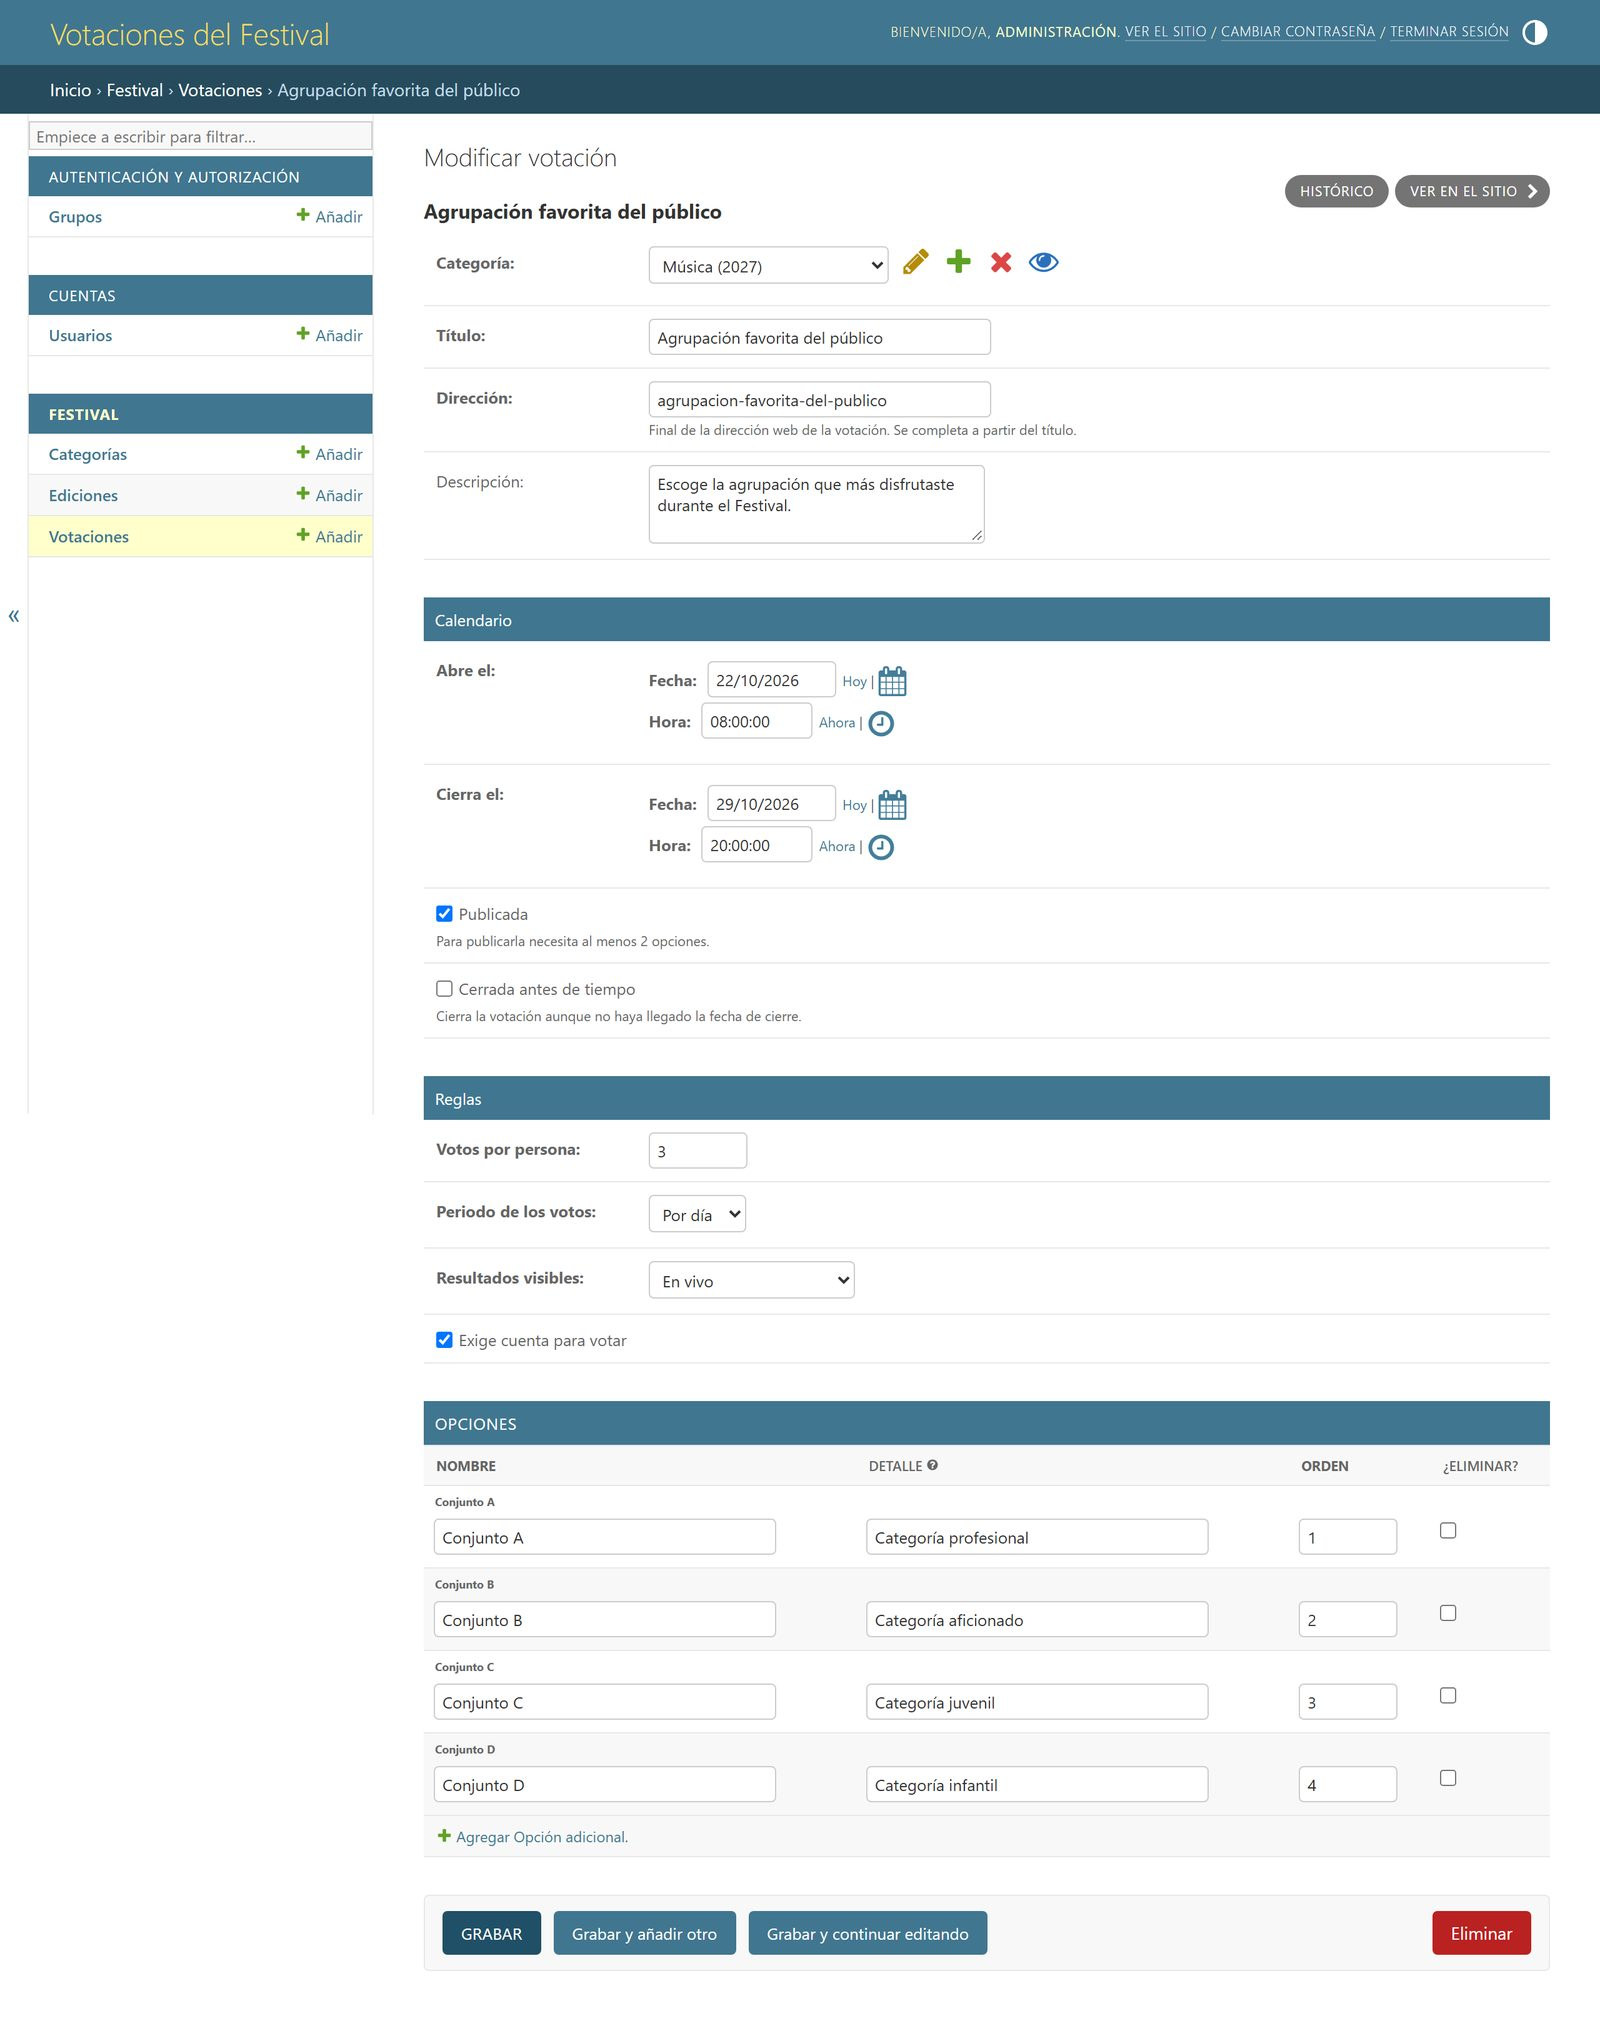
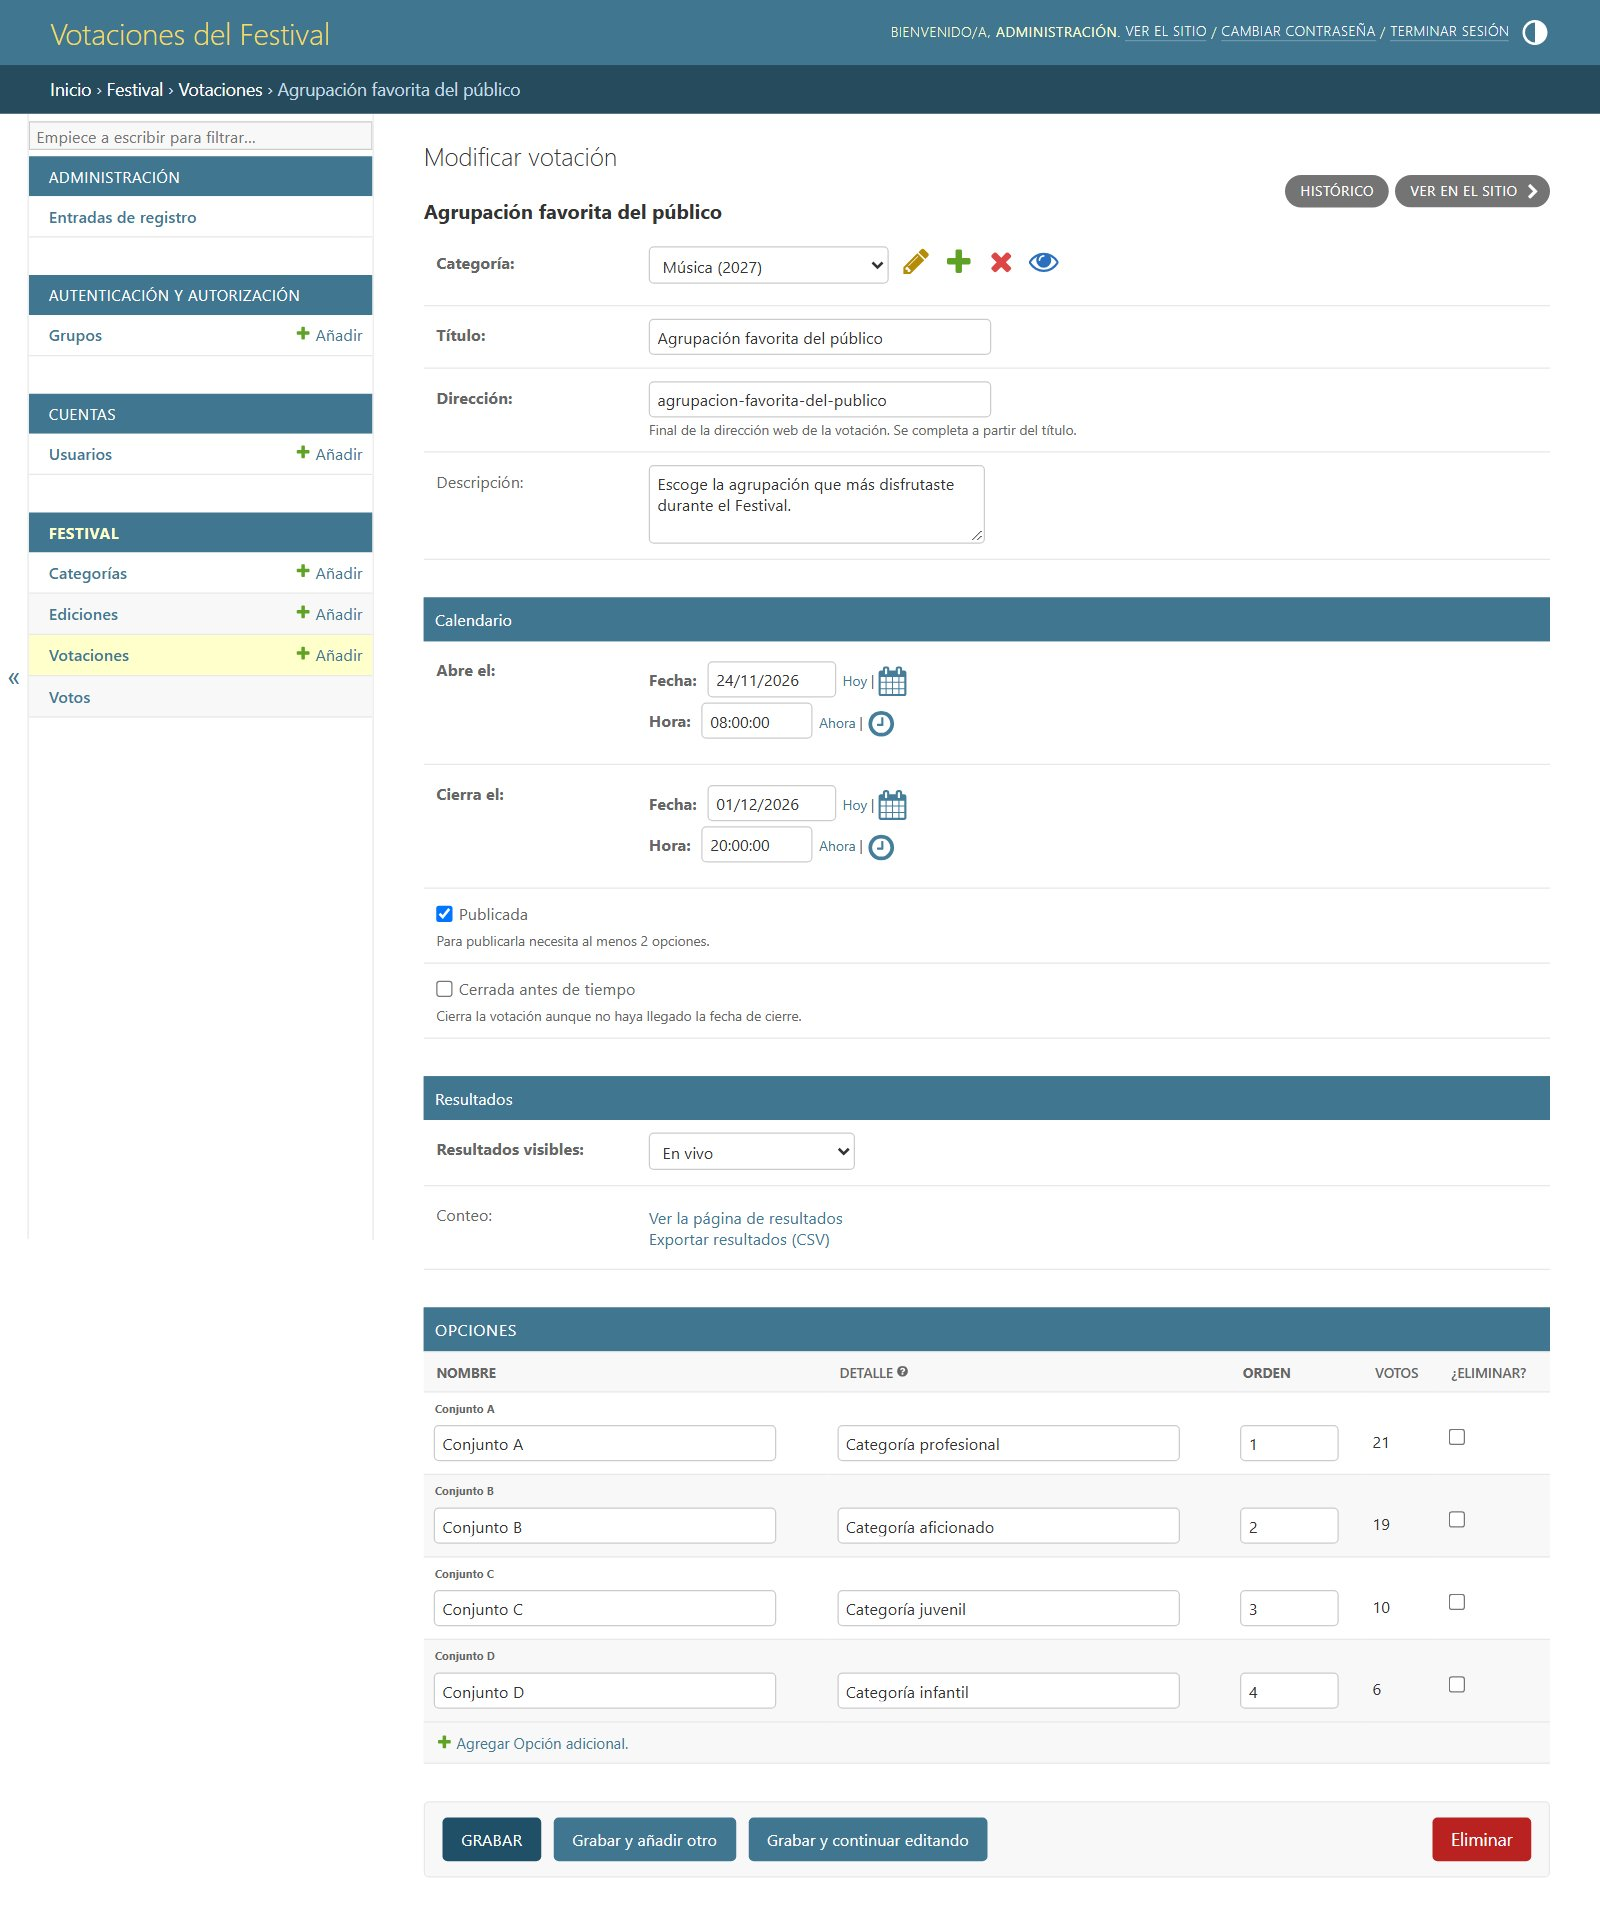
Retake the admin screenshot without the fields phase 3 removed

diff --git a/README.md b/README.md
@@ -119,7 +119,7 @@ The second deliverable asked for a Django project connected to MySQL: related mo
 
 The pages reuse the prototype's CSS, fonts and images straight from `assets/`, so both phases look the same. Setup instructions are in [backend/README.md](backend/README.md).
 
-![Poll edited in the Django admin](docs/screenshots/django-admin-poll.jpg)
+![Poll form in the Django admin, with the votes of each option](docs/screenshots/django-admin-poll.jpg)
 
 ### What it adds
 
